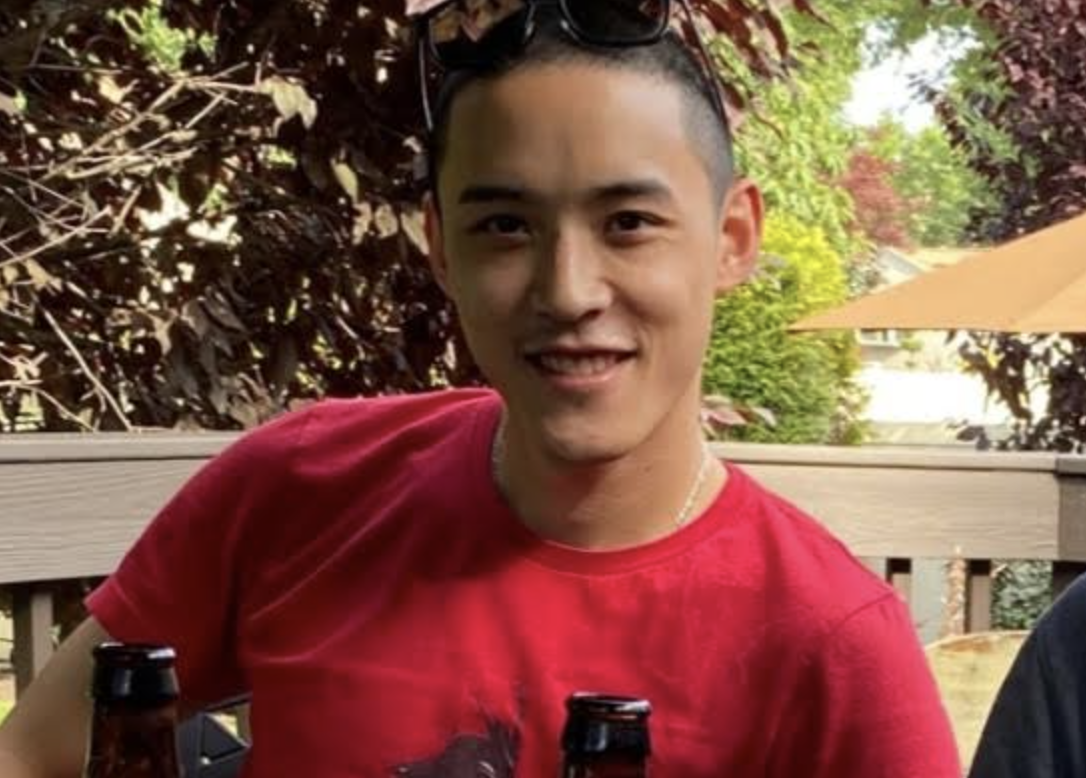
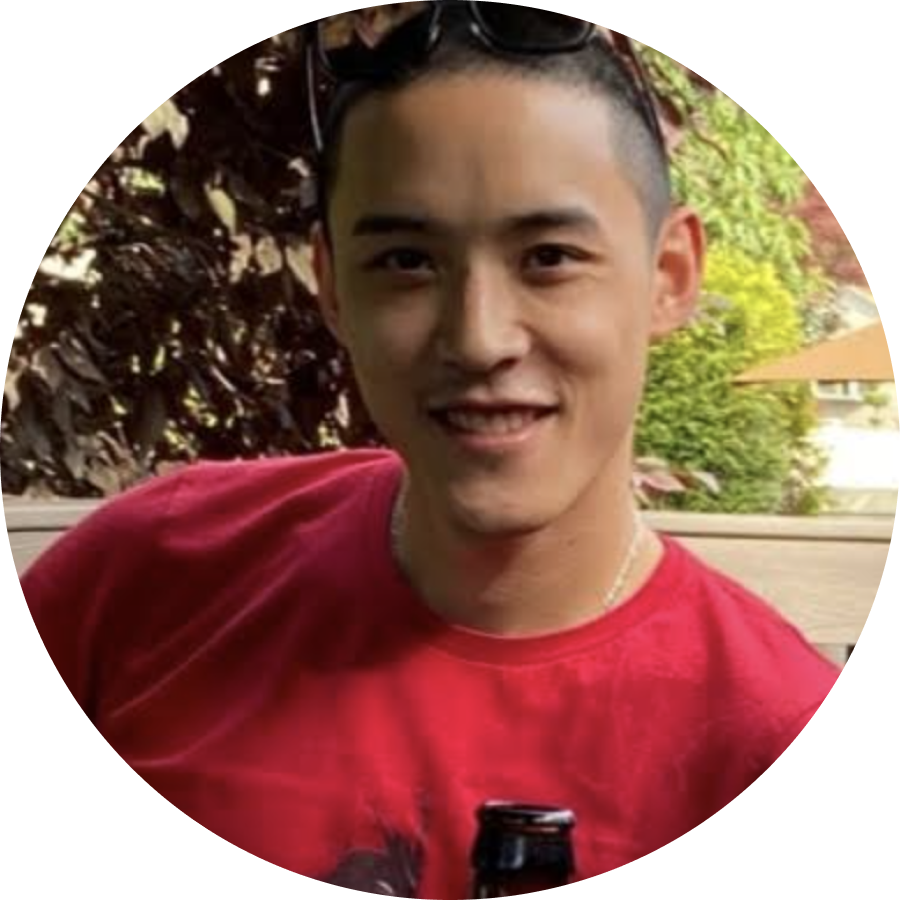
save

diff --git a/index.html b/index.html
@@ -136,24 +136,38 @@
     <div class="row" id="row-about">
       <div>
         <!-- <h4>Who am I?</h4> -->
-        <p>Currently live in New Jersey roughly 60 minute's south of NYC. I am currently a student at Drexel University, studying for my MSI in HCI & UX. Outside of academia, I work full time at a large insurance company and seeking opportunities to expand my career!<br>When I'm not working or studying, I enjoy running, eating delicious foods, and training Muay Thai. Pretty average guy who enjoys designing nifty interfaces and kicking leather pads.</p>
+        <p>Currently live in New Jersey, roughly 60 minutes south of NYC. I am currently a student at Drexel University, studying for my MSI in HCI & UX. Outside of academia, I work full time at a large insurance company and seeking opportunities to expand my career!</p>
+        <p>When I'm not working or studying, I enjoy running, eating delicious foods, and training Muay Thai. Pretty average guy who enjoys designing nifty interfaces and kicking leather pads.</p>
       </div>
       <div class="image-column">
-        <img src="assets/images/misc/me-5.png" alt="Photo of me enjoying some drinks">
-        <span class="font-caption">Lorem ipsum dolor sit amet.</span>
+        <img src="assets/images/misc/me-6.png" alt="Photo of me enjoying some drinks">
+        <span class="font-caption">(left to right) Team-mate/corner, myself, and my trainer after one of my competitions, 06.21</span>
       </div>
       <spam id="contact-anchor"></spam><!--Anchor - Contact-->
     </div>
     <h2><span>Contact</span></h2>
-    <!-- <div class="row" id="row-contact">
-      <div>
-        <img src="assets/images/misc/me-5.png" alt="Photo of me enjoying some drinks">
+    <div class="row" id="row-contact">
+      <div class="image-column">
+        <img src="assets/images/misc/me.png" alt="Photo of me enjoying some drinks">
+        <div class="button-row">
+          <a rel="link to resume" target="_blank" href="assets/images/misc/resume-mast.pdf">
+            <button id="button-1" class="button-CTA">
+              <ul>
+                <li>Resume</li>
+                <li><img src="assets/images/branding/pdf.png" alt="PDF download"></li>
+              </ul>
+            </button>
+          </a>
+        </div>
       </div>
       <div>
-        <h4>Who am I?</h4>
-        <p>Currently live in New Jersey roughly 60 minute's south of NYC. I am currently a student at Drexel University, studying for my master's degree (MSI) in Human Computer Interaction and User Experience. Outside of academia, I work full time at a large insurance company and seeking opportunities to expand my career!<br>When I'm not working or studying, I enjoy running, eating delicious foods, training Muay Thai, and consuming digital content. Pretty average guy who enjoys designing nifty interfaces and kicking leather pads.<br>- I got a new phone and lost a lot of my photos</p>
+        <h4>The most reliable way to contact me would be through email or LinkedIn</h4>
+        <ul>
+          <li>lorem</li>
+          <li>lorem </li>
+        </ul>
       </div>
-    </div> -->
+    </div>
   </div>
   <footer style="">
     <div>

diff --git a/assets/css/home/style.less b/assets/css/home/style.less
@@ -211,7 +211,7 @@ h3{
 }
 
 h4{
-  .font-heading_text-h4
+  .font-heading_text-h4;
 }
 
 h5{
@@ -282,6 +282,53 @@ p{
     }
     .font-caption{
       font-size:12.5pt;
+    }
+  }
+}
+
+#row-contact{
+  display:grid;
+  grid-template-columns: 1fr 2fr;
+  grid-gap:2em;
+  div{
+    p{
+      margin-bottom:32px;
+    }
+  }
+  .image-column{
+    display: flex;
+    flex-direction: column;
+    // text-align: center;
+    img{
+        width:80%;
+        float:right;
+        border-radius:2px;
+    }
+    .button-row{
+      a{
+        button{
+          background-color:@color-CTA;
+          border:2px solid @color-CTA;
+          border-radius:2px;
+          padding:12px 20px 10px 20px;
+          ul{
+            display:inline-flex;
+            li{
+              font-weight:400;
+              font-size:12pt;
+              letter-spacing:.4px;
+              margin-left:0;
+              color:@color-secondary;
+            }
+          }
+          &:hover{
+            color:#FFF;
+            background-color:#0066FF;
+            border: 2px solid #0066FF;
+            cursor: pointer
+          }
+        }
+      }
     }
   }
 }

diff --git a/assets/css/home/style.css b/assets/css/home/style.css
@@ -292,3 +292,42 @@ p {
 #row-about .image-column .font-caption {
   font-size: 12.5pt;
 }
+#row-contact {
+  display: grid;
+  grid-template-columns: 1fr 2fr;
+  grid-gap: 2em;
+}
+#row-contact div p {
+  margin-bottom: 32px;
+}
+#row-contact .image-column {
+  display: flex;
+  flex-direction: column;
+}
+#row-contact .image-column img {
+  width: 80%;
+  float: right;
+  border-radius: 2px;
+}
+#row-contact .image-column .button-row a button {
+  background-color: #526DFD;
+  border: 2px solid #526DFD;
+  border-radius: 2px;
+  padding: 12px 20px 10px 20px;
+}
+#row-contact .image-column .button-row a button ul {
+  display: inline-flex;
+}
+#row-contact .image-column .button-row a button ul li {
+  font-weight: 400;
+  font-size: 12pt;
+  letter-spacing: 0.4px;
+  margin-left: 0;
+  color: #FDFDFD;
+}
+#row-contact .image-column .button-row a button:hover {
+  color: #FFF;
+  background-color: #0066FF;
+  border: 2px solid #0066FF;
+  cursor: pointer;
+}

diff --git a/assets/css/home/media.css b/assets/css/home/media.css
@@ -9,7 +9,7 @@
 
 @media screen and (max-width:600px)  { /* portrait tablets, portrait iPad, e-readers (Nook/Kindle), landscape 800x480 phones (Android) */
   h1{
-
+    font-size:38pt;
   }
 
   h2{
@@ -48,6 +48,7 @@
   #row-header div a img {
     width:33%;
     float: none;
+    text-align: center;
   }
 
   #row-header div p {

diff --git a/assets/css/nav/media.css b/assets/css/nav/media.css
@@ -70,7 +70,7 @@
   } */
 }
 
-@media screen and (max-width:520px)  { /* smartphones, portrait iPhone, portrait 480x320 phones (Android) */
+@media screen and (max-width:600px)  { /* smartphones, portrait iPhone, portrait 480x320 phones (Android) */
   label{
     display:block;
     cursor:pointer;

diff --git a/assets/css/nav/style.css b/assets/css/nav/style.css
@@ -2,7 +2,7 @@ nav{
   display:flex;
   flex-direction:row;
   justify-content:space-between;
-  padding:24px 0 20px 0;
+  padding:20px 0 20px 0;
   background-color:#FFF;
   width:100%;
   border-bottom:1px solid #c4c4c4;
